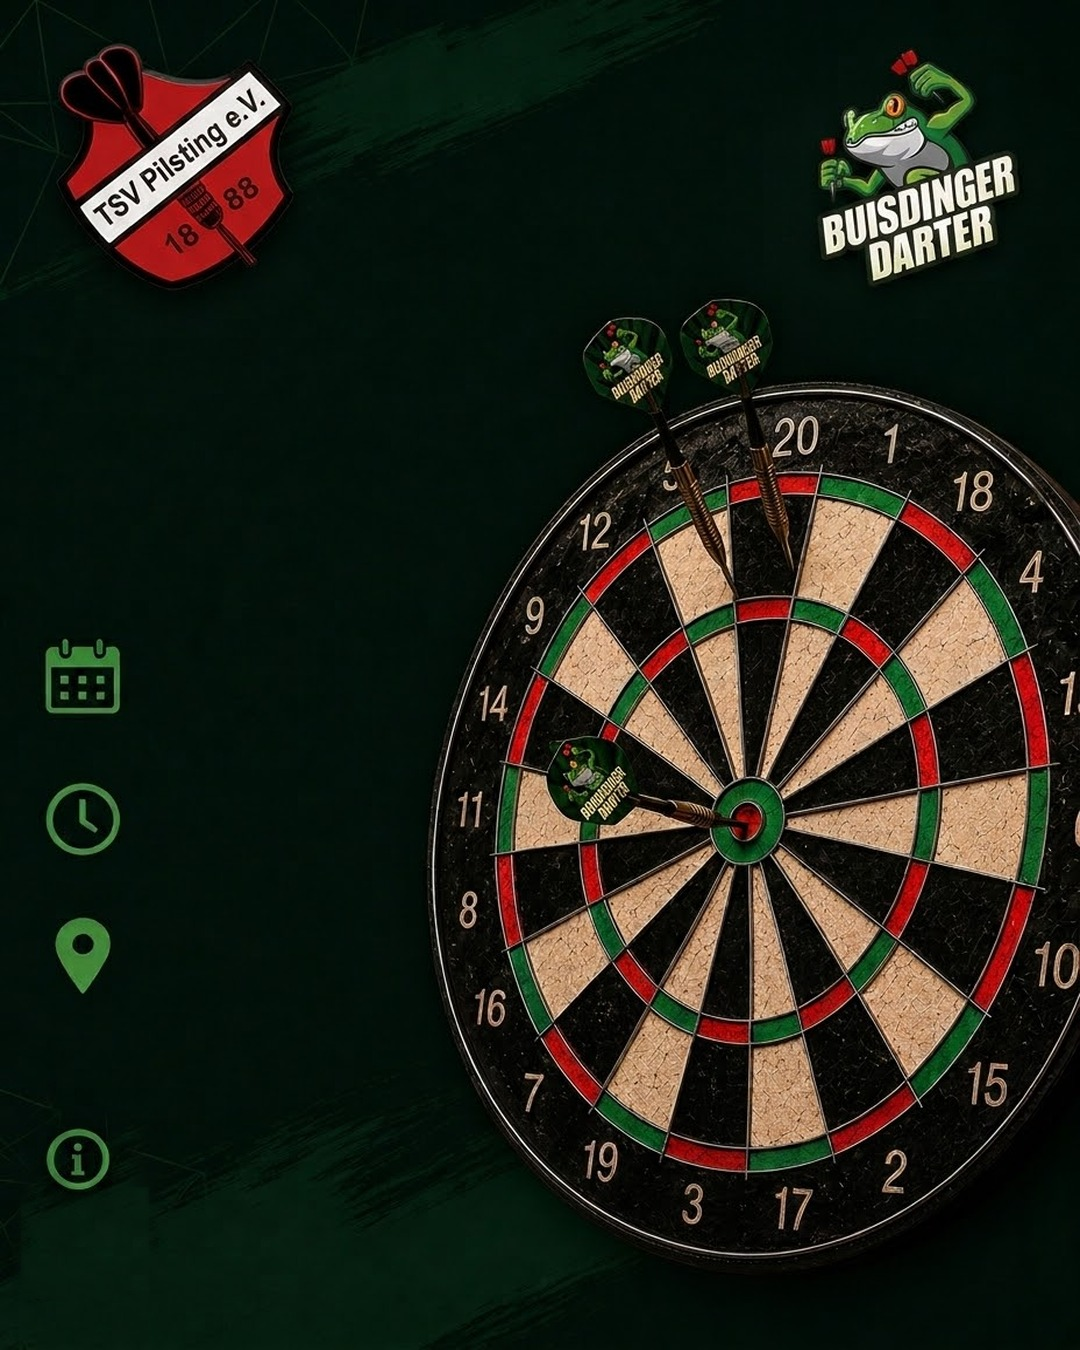
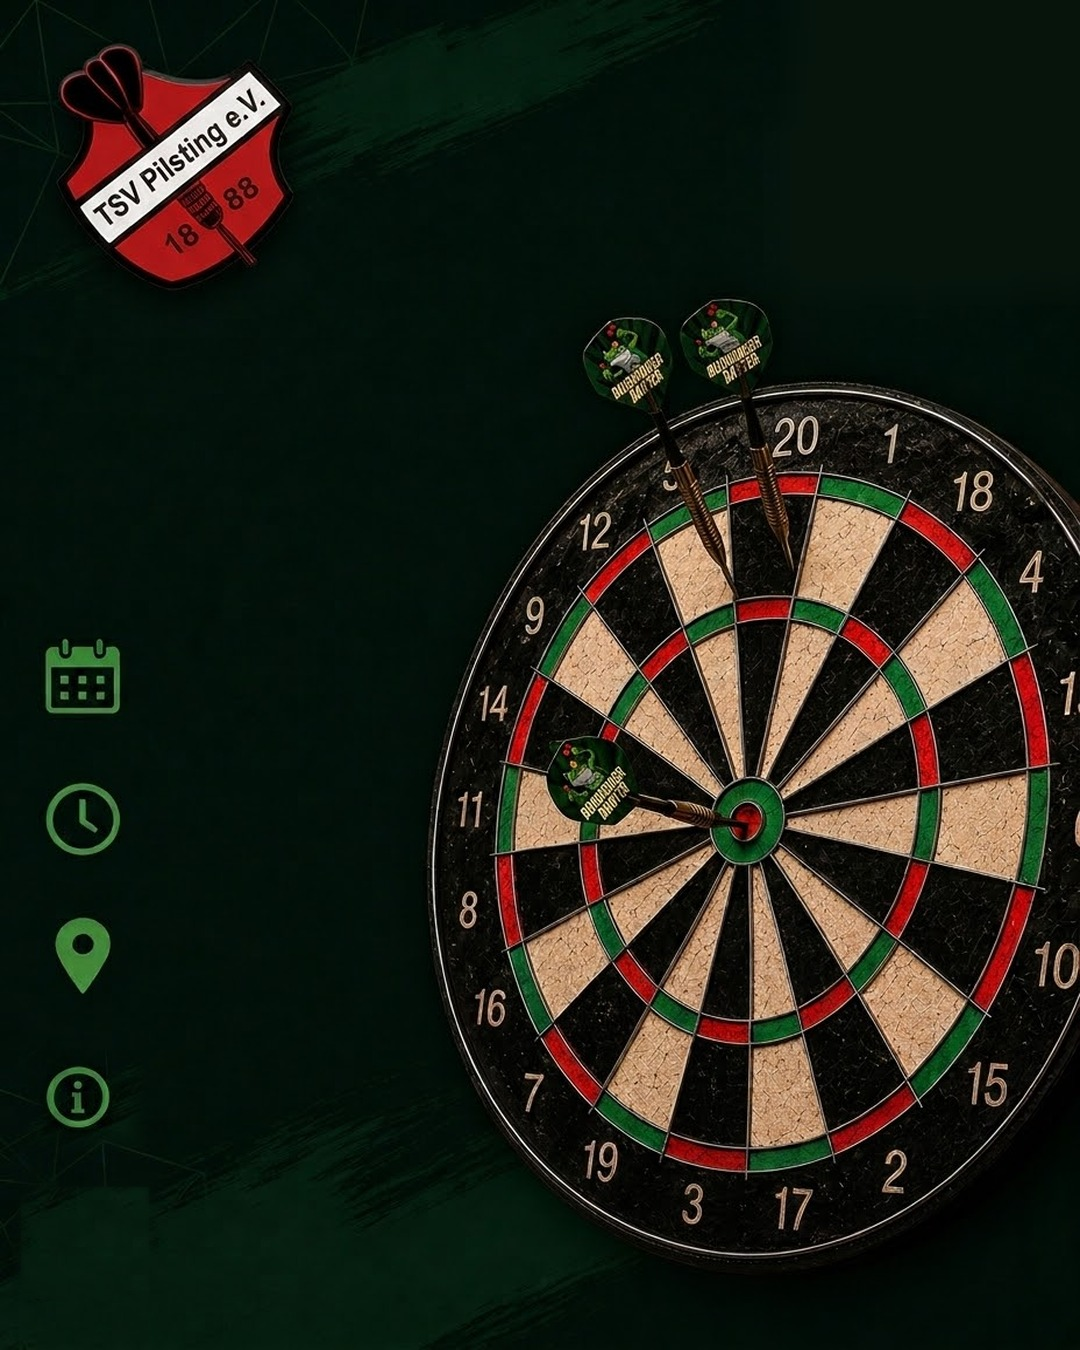
Weitere Design-Anpassungen: Dartscheibe, Headline, neue Verpflegungs-Zeile
- Dartscheibe rückt weiter aus dem rechten Bildrand (Hintergrundfoto per
  CSS-Transform gestreckt). Damit das Frosch-Logo dabei nicht mit
  verschoben wird, ist es jetzt aus dem Hintergrundfoto herausretuschiert
  und liegt als eigenes, unverschobenes Bild obenauf.
- Headline "1. Dart Competition" vergrößert und weiter nach unten gerückt
  (mehr Abstand zum Vereinslogo); Breite erneut mit dem echten Rye-Font
  geprüft.
- Datum/Uhrzeit/Ort-Werte eine Stufe größer (31px → 35px).
- Neue Zeile "Verpflegung" unter dem Info-Symbol, gleiches Format wie
  Datum/Uhrzeit/Ort, mit eigenem Besteck-Icon (nicht im Hintergrundfoto
  vorhanden, daher als separates Icon gebaut und als PNG gerendert, da
  html2canvas eingebettetes SVG beim Export nicht darstellt).
- Alle fünf Icons (Datum/Uhrzeit/Ort/Info/Verpflegung) jetzt exakt
  untereinander ausgerichtet und mit gleichmäßigem Abstand
  (~140px, geprüft).

PR #9 wurde zwischenzeitlich gemerged; dieser Branch wurde daher von
main neu aufgesetzt und die offene Arbeit hier fortgeführt. Kompletten
Ablauf erneut mit iPhone-Emulation getestet (Kachel → Tool → Felder
befüllen inkl. neuer Verpflegung-Feld → Download → iOS-Speichern-Dialog
zeigt korrektes Endergebnis).

Claude-Session: https://claude.ai/code/session_01VyJBXKDBAzk5RHnoev3bFe

Changed region(s): [[0.7639, 0.0311, 0.9472, 0.2178], [0.0306, 0.7778, 0.1222, 0.9022]]

diff --git a/competition.html b/competition.html
@@ -58,7 +58,11 @@ h1.page-ttl{width:100%;max-width:1080px;padding:14px 18px 0;font-family:'Oswald'
 /* POST PREVIEW */
 .pw{width:100%;max-width:1080px;position:relative;overflow:hidden;}
 .post{width:1080px;height:1350px;position:relative;overflow:hidden;background:var(--bg);transform-origin:top left;}
-.bg{position:absolute;inset:0;width:100%;height:100%;object-fit:cover;z-index:1;}
+.bg{position:absolute;inset:0;width:100%;height:100%;object-fit:cover;z-index:1;
+  transform:scaleX(1.12);transform-origin:0 center;}
+/* Frosch-Logo liegt als eigenes Bild obenauf, damit es beim Verschieben
+   der Dartscheibe (scaleX auf .bg) an Ort und Stelle bleibt */
+.frog-logo{position:absolute;left:786px;top:6px;width:294px;height:293px;z-index:2;pointer-events:none;}
 
 /* 3D "Spacegrau" Text-Style */
 .sg3d{color:var(--sg);text-shadow:0 1px 0 rgba(255,255,255,.16),0 2px 3px rgba(0,0,0,.65),0 -1px 1px rgba(0,0,0,.35);}
@@ -79,20 +83,24 @@ h1.page-ttl{width:100%;max-width:1080px;padding:14px 18px 0;font-family:'Oswald'
   text-transform:uppercase;z-index:10;}
 
 /* Headline */
-.headline{position:absolute;top:304px;left:56px;width:430px;z-index:10;font-family:'Rye',cursive;font-weight:700;text-transform:uppercase;}
-.hl-line1{font-size:98px;line-height:.85;}
-.hl-line2{font-size:51px;line-height:.85;margin-top:8px;}
+.headline{position:absolute;top:330px;left:56px;width:450px;z-index:10;font-family:'Rye',cursive;font-weight:700;text-transform:uppercase;}
+.hl-line1{font-size:112px;line-height:.85;}
+.hl-line2{font-size:58px;line-height:.85;margin-top:8px;}
 .hl-desc{font-family:'Bebas Neue',cursive;font-size:22px;line-height:1.25;letter-spacing:.5px;margin-top:16px;}
 
-/* Info-Zeilen: Icons kommen aus dem Hintergrundfoto, hier nur der Text daneben */
+/* Info-Zeilen: Datum/Uhrzeit/Ort-Icons kommen aus dem Hintergrundfoto, hier nur der Text daneben */
 .info-row{position:absolute;left:150px;width:420px;display:flex;flex-direction:column;justify-content:center;z-index:10;}
-.info-lbl{font-family:'Bebas Neue',cursive;font-weight:400;font-size:18px;color:var(--green);letter-spacing:3px;margin-bottom:2px;}
-.info-val{font-family:'Bebas Neue',cursive;font-weight:400;font-size:31px;line-height:1.15;letter-spacing:.5px;}
+.info-lbl{font-family:'Bebas Neue',cursive;font-weight:400;font-size:20px;color:var(--green);letter-spacing:3px;margin-bottom:2px;}
+.info-val{font-family:'Bebas Neue',cursive;font-weight:400;font-size:35px;line-height:1.15;letter-spacing:.5px;}
 .row-datum{top:641px;height:70px;}
 .row-uhrzeit{top:783px;height:70px;}
 .row-ort{top:920px;height:70px;}
-.footer-note{position:absolute;left:150px;top:1122px;width:440px;z-index:10;}
+.footer-note{position:absolute;left:150px;top:1064px;width:440px;z-index:10;}
 .note-text{font-family:'Bebas Neue',cursive;font-size:23px;line-height:1.3;letter-spacing:.5px;}
+
+/* Verpflegung: eigenes Icon (nicht im Hintergrundfoto), gleicher Stil wie die anderen */
+.custom-icon{position:absolute;left:47px;top:1204px;width:70px;height:70px;z-index:10;}
+.row-verpflegung{top:1204px;height:70px;}
 
 /* CONTROLS */
 .ctrl{width:100%;max-width:1080px;background:#161616;padding:20px 20px env(safe-area-inset-bottom,32px);-webkit-overflow-scrolling:touch;}
@@ -186,6 +194,10 @@ Best of 5 legs</textarea>
         <label>Ort</label>
         <input id="ort" value="Vereinsheim Pilsting" oninput="upd()">
       </div>
+      <div class="cf">
+        <label>Verpflegung</label>
+        <input id="verpflegung" value="[VERPFLEGUNG EINTRAGEN]" oninput="upd()">
+      </div>
     </div>
   </div>
 
@@ -205,6 +217,7 @@ Auch nicht-aktive Dartspieler sind herzlich zur Competition eingeladen.</textare
 <div class="post" id="post">
 
   <img class="bg" src="assets/competition-bg.jpg" alt="">
+  <img class="frog-logo" src="assets/competition-frog-logo.png" alt="">
 
   <div class="hdr-title silver3d" id="titleOut">TSV Pilsting Dart</div>
 
@@ -226,6 +239,12 @@ Auch nicht-aktive Dartspieler sind herzlich zur Competition eingeladen.</textare
 
   <div class="footer-note">
     <div class="note-text sg3d" id="valNote">Teilnahme für alle möglich!<br>Auch nicht-aktive Dartspieler sind herzlich zur Competition eingeladen.</div>
+  </div>
+
+  <img class="custom-icon" alt="" src="assets/competition-icon-verpflegung.png">
+
+  <div class="info-row row-verpflegung">
+    <div class="info-lbl">VERPFLEGUNG</div><div class="info-val sg3d" id="valVerpflegung">[VERPFLEGUNG EINTRAGEN]</div>
   </div>
 </div>
 </div>
@@ -283,6 +302,7 @@ function upd(){
   document.getElementById('valDatum').textContent = fmtDate(g('dt'));
   document.getElementById('valUhrzeit').textContent = g('uhrzeit')||'[UHRZEIT]';
   document.getElementById('valOrt').textContent = g('ort')||'[ORT]';
+  document.getElementById('valVerpflegung').textContent = g('verpflegung')||'[VERPFLEGUNG EINTRAGEN]';
   document.getElementById('valNote').innerHTML = (g('note')||'').replace(/\n/g,'<br>');
 }
 
